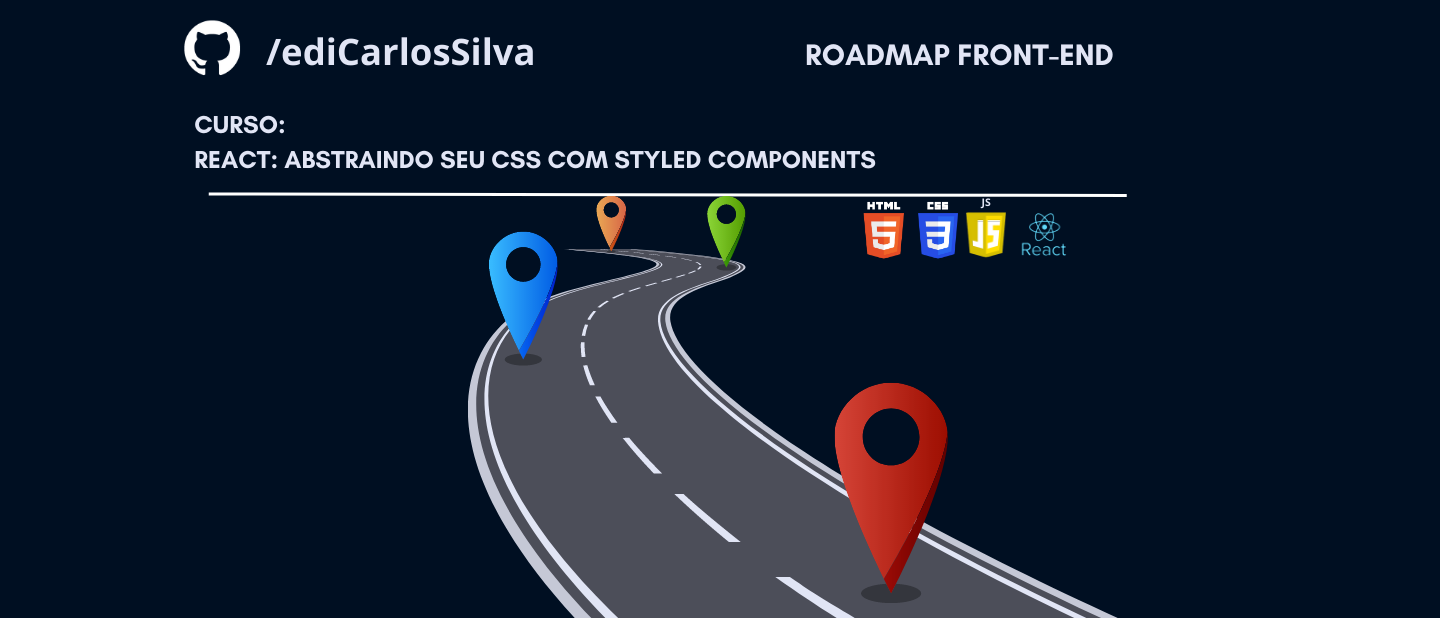
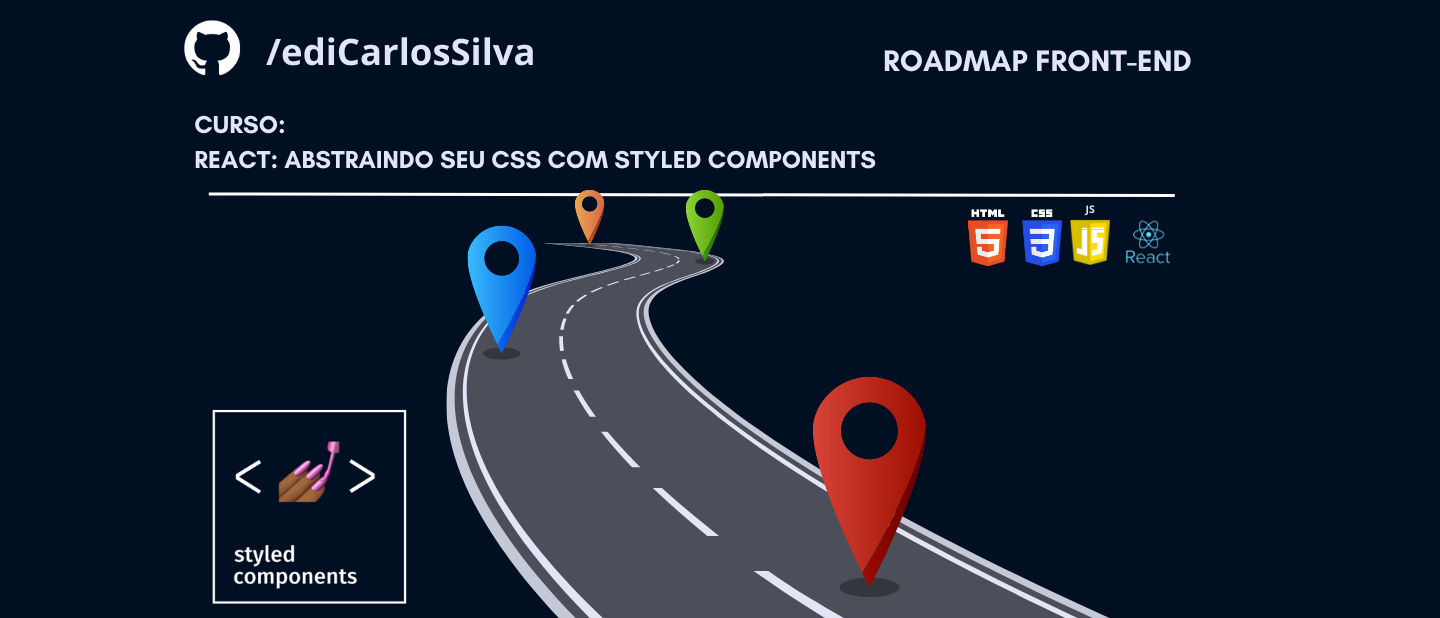
ajustes capa

diff --git a/README.md b/README.md
@@ -2,6 +2,6 @@
 
 <h1 align="center"> Curso styled-components</h1>
 
-## Projeto para desenvolver os conhecimentos de styled-componentes [documentação](https://styled-components.com/docs)
+## Projeto para desenvolver os conhecimentos de [styled-componentes](https://styled-components.com/docs)
 
 
